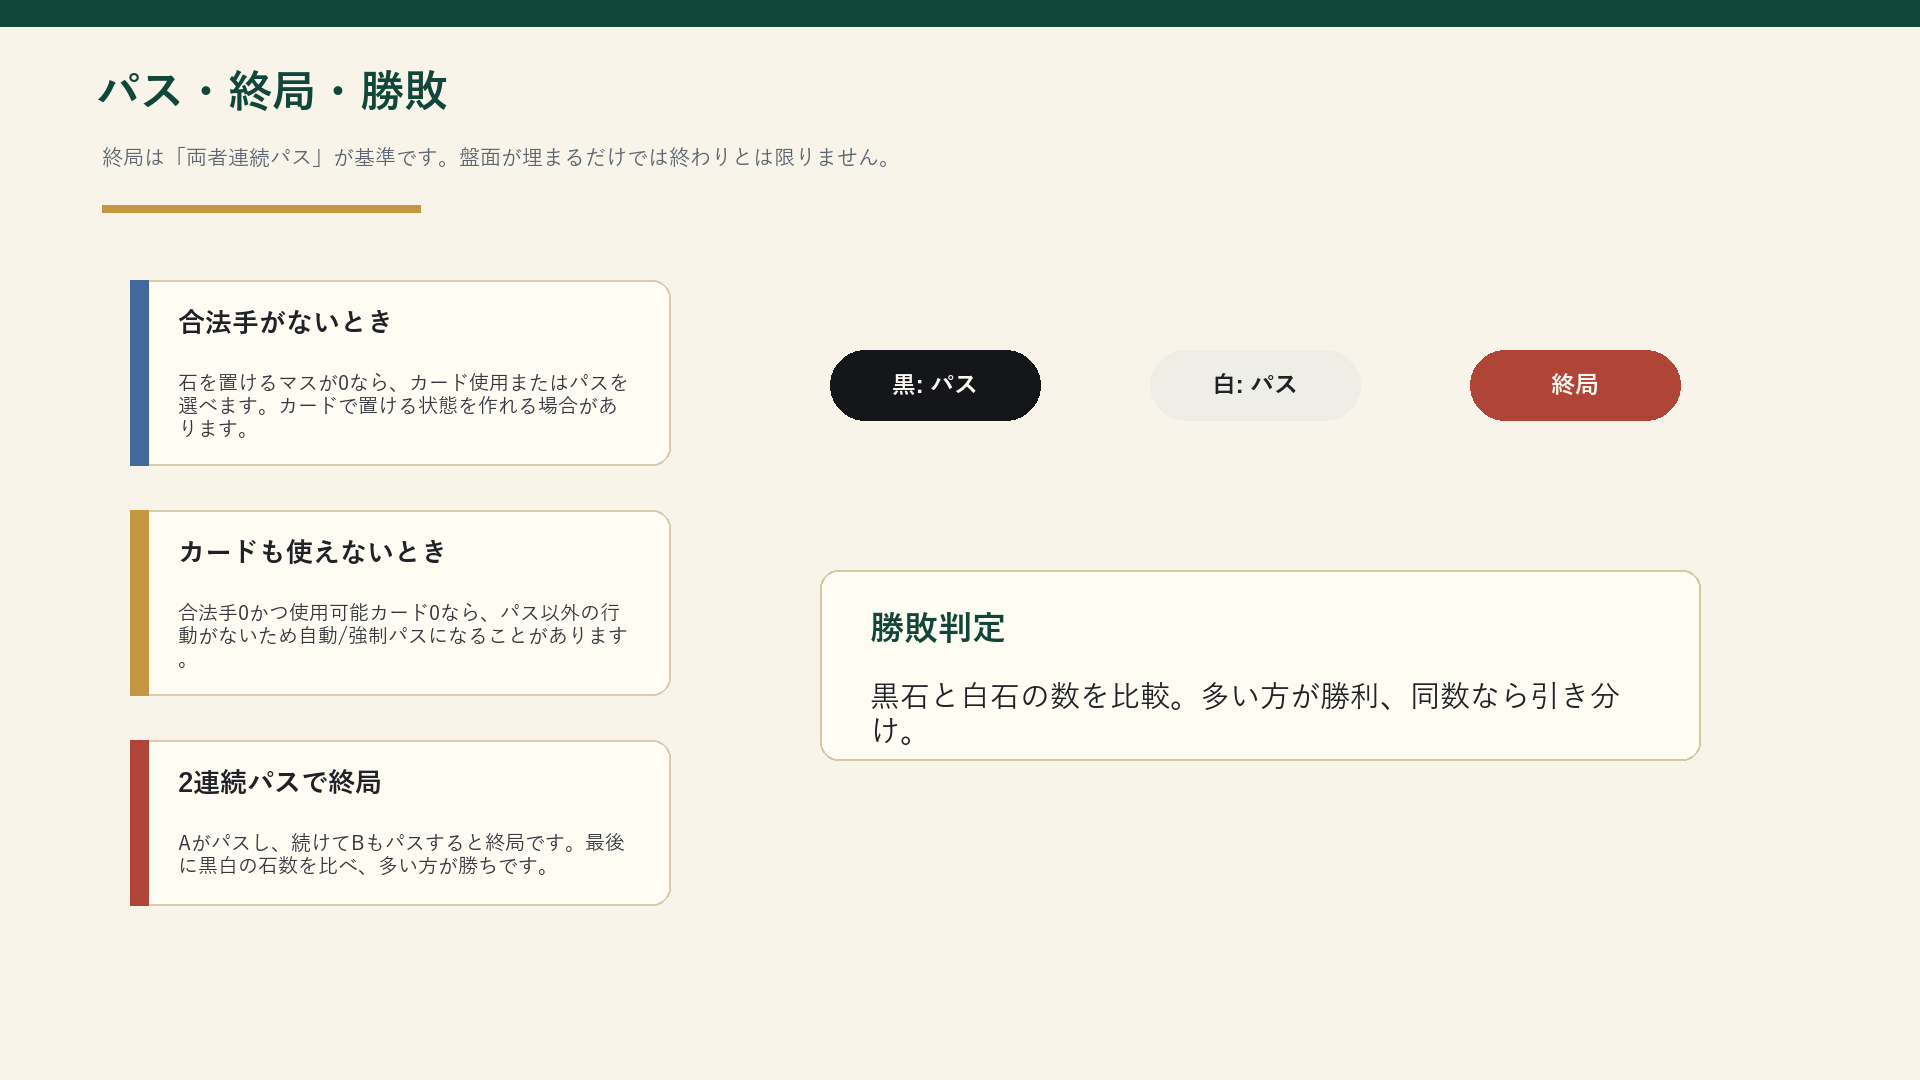
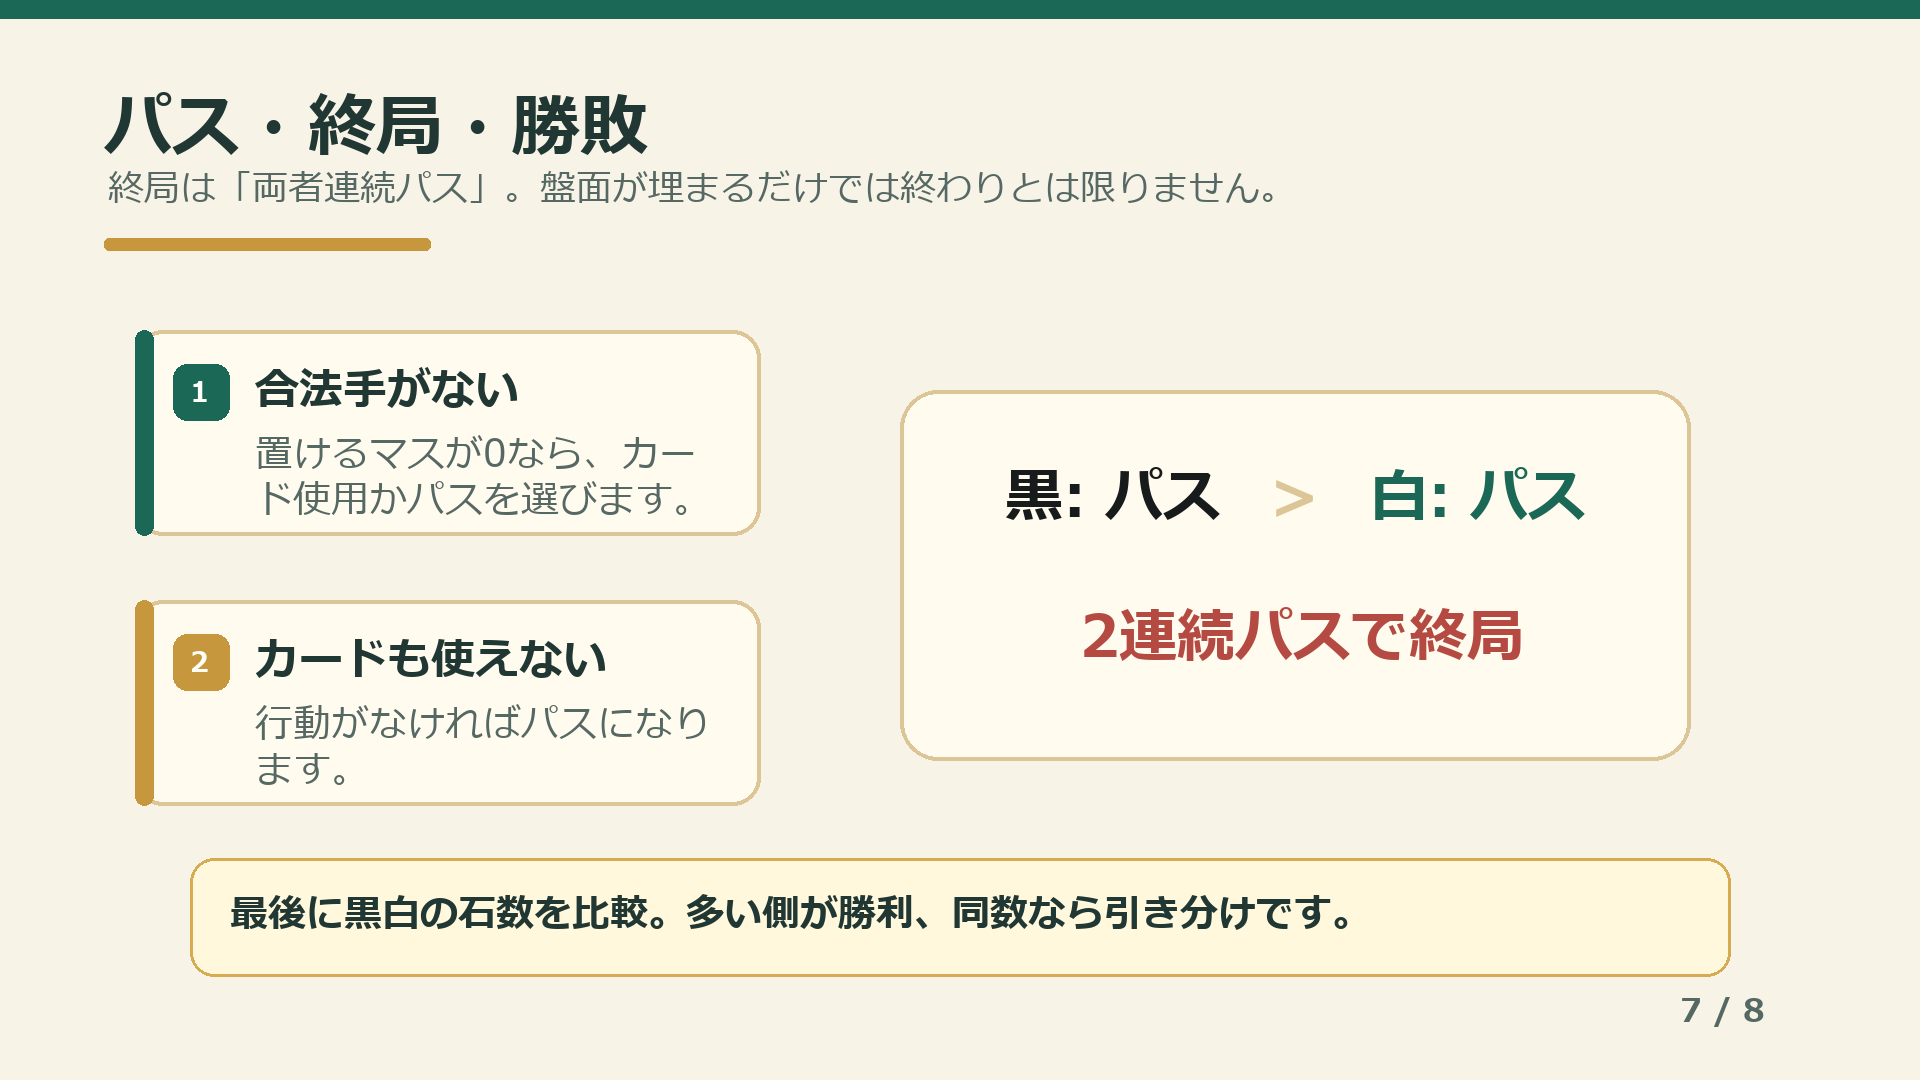
Improve help slide readability

diff --git a/scripts/generate-player-guide-slides.py b/scripts/generate-player-guide-slides.py
@@ -1,0 +1,265 @@
+from __future__ import annotations
+
+import shutil
+from pathlib import Path
+
+from PIL import Image, ImageDraw, ImageFont, JpegImagePlugin  # noqa: F401
+
+
+ROOT = Path(__file__).resolve().parents[1]
+ARTIFACT_DIR = ROOT / "artifacts" / "player-guide"
+ASSET_DIR = ROOT / "assets" / "images" / "help" / "player-guide"
+WORKER_ASSET_DIR = ROOT / "worker-public" / "assets" / "images" / "help" / "player-guide"
+PDF_PATH = ARTIFACT_DIR / "card-reversi-player-guide.pdf"
+W, H = 1920, 1080
+
+FONT_REGULAR = Path("C:/Windows/Fonts/meiryo.ttc")
+FONT_BOLD = Path("C:/Windows/Fonts/meiryob.ttc")
+
+
+COLORS = {
+    "bg": (247, 243, 231),
+    "ink": (32, 55, 51),
+    "muted": (86, 104, 99),
+    "teal": (27, 104, 86),
+    "gold": (199, 151, 61),
+    "red": (180, 74, 65),
+    "panel": (255, 251, 239),
+    "line": (220, 198, 151),
+    "green": (38, 115, 88),
+    "dark": (30, 51, 45),
+    "white": (238, 236, 226),
+    "black": (24, 27, 28),
+}
+
+
+def font(size: int, bold: bool = False) -> ImageFont.FreeTypeFont:
+    return ImageFont.truetype(str(FONT_BOLD if bold else FONT_REGULAR), size)
+
+
+def text_width(draw: ImageDraw.ImageDraw, text: str, fnt: ImageFont.FreeTypeFont) -> int:
+    box = draw.textbbox((0, 0), text, font=fnt)
+    return box[2] - box[0]
+
+
+def wrap_text(draw: ImageDraw.ImageDraw, text: str, fnt: ImageFont.FreeTypeFont, max_width: int) -> list[str]:
+    lines: list[str] = []
+    current = ""
+    for ch in text:
+        trial = current + ch
+        if current and text_width(draw, trial, fnt) > max_width:
+            lines.append(current)
+            current = ch
+        else:
+            current = trial
+    if current:
+        lines.append(current)
+    return lines
+
+
+def draw_wrapped(
+    draw: ImageDraw.ImageDraw,
+    xy: tuple[int, int],
+    text: str,
+    fnt: ImageFont.FreeTypeFont,
+    max_width: int,
+    fill=COLORS["ink"],
+    line_gap: int = 12,
+) -> int:
+    x, y = xy
+    for line in wrap_text(draw, text, fnt, max_width):
+        draw.text((x, y), line, font=fnt, fill=fill)
+        y += fnt.size + line_gap
+    return y
+
+
+def rounded(draw: ImageDraw.ImageDraw, box, radius=24, fill=None, outline=None, width=3):
+    draw.rounded_rectangle(box, radius=radius, fill=fill, outline=outline, width=width)
+
+
+def slide_base(page: int, title: str, subtitle: str = ""):
+    img = Image.new("RGB", (W, H), COLORS["bg"])
+    d = ImageDraw.Draw(img)
+    d.rectangle((0, 0, W, 18), fill=COLORS["teal"])
+    d.text((104, 78), title, font=font(68, True), fill=COLORS["ink"])
+    if subtitle:
+        draw_wrapped(d, (108, 162), subtitle, font(36), 1320, fill=COLORS["muted"], line_gap=8)
+    d.rounded_rectangle((104, 238, 430, 250), radius=5, fill=COLORS["gold"])
+    d.text((1680, 988), f"{page} / 8", font=font(32, True), fill=COLORS["muted"])
+    return img, d
+
+
+def bullet_card(draw, box, number, heading, body, accent=COLORS["teal"]):
+    x1, y1, x2, y2 = box
+    rounded(draw, box, radius=28, fill=COLORS["panel"], outline=COLORS["line"], width=4)
+    draw.rounded_rectangle((x1, y1, x1 + 18, y2), radius=9, fill=accent)
+    draw.rounded_rectangle((x1 + 38, y1 + 34, x1 + 94, y1 + 90), radius=14, fill=accent)
+    draw.text((x1 + 55, y1 + 42), str(number), font=font(28, True), fill=(255, 255, 250))
+    draw.text((x1 + 120, y1 + 28), heading, font=font(44, True), fill=COLORS["ink"])
+    draw_wrapped(draw, (x1 + 120, y1 + 96), body, font(38), x2 - x1 - 160, fill=COLORS["muted"], line_gap=8)
+
+
+def big_note(draw, text, y=858):
+    rounded(draw, (190, y, 1730, y + 118), radius=24, fill=(255, 248, 221), outline=(214, 171, 82), width=3)
+    draw_wrapped(draw, (230, y + 28), text, font(38, True), 1460, fill=COLORS["ink"], line_gap=8)
+
+
+def draw_board(draw, x, y, size=430, numbers=False, highlights=False):
+    cell = size // 8
+    draw.rectangle((x - 8, y - 8, x + size + 8, y + size + 8), fill=(92, 61, 30))
+    draw.rectangle((x, y, x + size, y + size), fill=(39, 116, 88))
+    for i in range(9):
+        p = x + i * cell
+        q = y + i * cell
+        draw.line((p, y, p, y + size), fill=(23, 73, 60), width=3)
+        draw.line((x, q, x + size, q), fill=(23, 73, 60), width=3)
+    if numbers:
+        vals = {(0, 0): "3", (1, 0): "7", (2, 0): "8", (4, 1): "2", (6, 1): "5", (7, 2): "4", (0, 5): "6", (3, 6): "10", (6, 6): "9"}
+        for (cx, cy), val in vals.items():
+            draw.text((x + cx * cell + 15, y + cy * cell + 9), val, font=font(32, True), fill=(232, 215, 143))
+    if highlights:
+        for cx, cy in [(2, 3), (3, 2), (4, 5), (5, 4)]:
+            draw.rectangle((x + cx * cell + 5, y + cy * cell + 5, x + (cx + 1) * cell - 5, y + (cy + 1) * cell - 5), fill=(88, 162, 122))
+    discs = [((3, 3), COLORS["black"]), ((4, 4), COLORS["black"]), ((3, 4), COLORS["white"]), ((4, 3), COLORS["white"])]
+    for (cx, cy), color in discs:
+        draw.ellipse((x + cx * cell + 11, y + cy * cell + 11, x + (cx + 1) * cell - 11, y + (cy + 1) * cell - 11), fill=color, outline=(6, 20, 18), width=2)
+
+
+def slide1():
+    img, d = slide_base(1, "Card Reversi", "リバーシに、布石とカードの判断を足した対戦ゲーム。")
+    d.text((116, 340), "まず覚えることは3つだけ", font=font(62, True), fill=COLORS["teal"])
+    bullet_card(d, (120, 460, 600, 735), "1", "石を返す", "置けるマスに置き、相手石を自分の色へ")
+    bullet_card(d, (720, 460, 1200, 735), "2", "布石を貯める", "反転や数字で増え、カードの燃料に")
+    bullet_card(d, (1320, 460, 1800, 735), "3", "カードで動かす", "配置前に使い、守る・動かす・破壊で盤面を変える", COLORS["red"])
+    big_note(d, "最初は「置ける場所」「布石の数」「手札」を見るだけで遊べます。")
+    return img
+
+
+def slide2():
+    img, d = slide_base(2, "このゲームを一言で", "通常リバーシの直感はそのまま。布石とカードで逆転手段が増えます。")
+    draw_board(d, 150, 382, 410, highlights=True)
+    d.text((200, 820), "黒先手 / 白後手", font=font(33, True), fill=COLORS["muted"])
+    bullet_card(d, (700, 330, 1720, 510), "1", "リバーシで石を増やす", "最後に石が多い側が勝利。読み合いは通常リバーシと同じ。")
+    bullet_card(d, (700, 565, 1720, 745), "2", "布石をカードへ変える", "布石を貯めて、強いカードのコストにします。", COLORS["gold"])
+    big_note(d, "悩んだら「今どこに置けるか」「次に何のカードを使えるか」を確認します。")
+    return img
+
+
+def slide3():
+    img, d = slide_base(3, "盤面と数字マス", "数字マスは布石を増やす重要マス。高い数字ほどカードにつながります。")
+    draw_board(d, 150, 330, 500, numbers=True, highlights=True)
+    bullet_card(d, (760, 326, 1710, 500), "1", "8x8の盤面", "中央4石から開始。黒が先手です。")
+    bullet_card(d, (760, 545, 1710, 720), "2", "数字分だけ布石を獲得", "数字マスに置くと、追加で布石が増えます。", COLORS["gold"])
+    bullet_card(d, (760, 764, 1710, 938), "3", "数字は一度だけ", "使った数字は復活しません。危険なら無理に取らない。", COLORS["red"])
+    return img
+
+
+def slide4():
+    img, d = slide_base(4, "1ターンの流れ", "カードは石を置く前に使うのが基本です。")
+    steps = [
+        ("1", "ターン開始", "継続効果や期限を処理"),
+        ("2", "1枚ドロー", "山札から手札へ"),
+        ("3", "カード使用", "任意。原則1ターン1枚"),
+        ("4", "配置 / パス", "置けないときはパス"),
+        ("5", "反転・効果", "石とカード効果を解決"),
+        ("6", "布石獲得", "反転枚数や数字分を加算"),
+    ]
+    x0, y0 = 115, 345
+    for i, (num, head, body) in enumerate(steps):
+        col = i % 3
+        row = i // 3
+        x = x0 + col * 600
+        y = y0 + row * 230
+        bullet_card(d, (x, y, x + 500, y + 170), num, head, body, [COLORS["teal"], COLORS["gold"], COLORS["red"]][i % 3])
+        if i not in (2, 5):
+            d.text((x + 520, y + 60), ">", font=font(56, True), fill=COLORS["line"])
+    big_note(d, "手札上限は5枚。使いにくいカードは破壊して手札を回す判断もあります。")
+    return img
+
+
+def slide5():
+    img, d = slide_base(5, "布石はカードの燃料", "貯めるほど強いカードが使えます。ただし上限は99です。")
+    rounded(d, (130, 355, 690, 765), radius=34, fill=COLORS["dark"], outline=COLORS["line"], width=4)
+    d.text((250, 435), "布石", font=font(62, True), fill=(255, 248, 225))
+    d.text((245, 535), "0 - 99", font=font(90, True), fill=(255, 214, 103))
+    d.text((224, 670), "カード使用時に消費", font=font(38, True), fill=(255, 248, 225))
+    bullet_card(d, (800, 325, 1715, 500), "1", "反転で増える", "返した枚数ぶん、すぐ布石を獲得します。")
+    bullet_card(d, (800, 545, 1715, 720), "2", "数字マスで増える", "数字マスの値が、そのまま追加布石になります。", COLORS["gold"])
+    bullet_card(d, (800, 765, 1715, 940), "3", "10ラウンドごとに加算", "10 / 20 / 30... の開始時にボーナスが入ります。", COLORS["red"])
+    return img
+
+
+def slide6():
+    img, d = slide_base(6, "カードの使い方", "強いカードほど布石コストが重くなります。使うタイミングが勝負です。")
+    cards = [
+        ("COST 0", "宝箱", "布石を増やす。序盤の燃料づくり。", COLORS["teal"]),
+        ("COST 1", "弱い意志", "次に置く石を一時的に守る。", COLORS["gold"]),
+        ("COST 14", "自由の意志", "反転0でも1手だけ置ける。", COLORS["red"]),
+        ("COST 23", "狙撃の意志", "重いが盤面を大きく崩せる。", (112, 75, 145)),
+    ]
+    for i, (cost, name, body, accent) in enumerate(cards):
+        x = 120 + (i % 2) * 900
+        y = 330 + (i // 2) * 265
+        rounded(d, (x, y, x + 770, y + 210), radius=30, fill=COLORS["panel"], outline=COLORS["line"], width=4)
+        d.rounded_rectangle((x + 36, y + 34, x + 210, y + 88), radius=14, fill=accent)
+        d.text((x + 58, y + 44), cost, font=font(29, True), fill=(255, 255, 250))
+        d.text((x + 250, y + 36), name, font=font(50, True), fill=COLORS["ink"])
+        draw_wrapped(d, (x + 50, y + 112), body, font(42), 680, fill=COLORS["muted"], line_gap=8)
+    big_note(d, "共通ルール: カードは配置前に使用。原則1ターン1枚です。")
+    return img
+
+
+def slide7():
+    img, d = slide_base(7, "パス・終局・勝敗", "終局は「両者連続パス」。盤面が埋まるだけでは終わりとは限りません。")
+    bullet_card(d, (135, 330, 760, 535), "1", "合法手がない", "置けるマスが0なら、カード使用かパスを選びます。")
+    bullet_card(d, (135, 600, 760, 805), "2", "カードも使えない", "行動がなければパスになります。", COLORS["gold"])
+    rounded(d, (900, 390, 1690, 760), radius=38, fill=COLORS["panel"], outline=COLORS["line"], width=4)
+    d.text((1005, 455), "黒: パス", font=font(58, True), fill=COLORS["black"])
+    d.text((1270, 455), ">", font=font(58, True), fill=COLORS["line"])
+    d.text((1370, 455), "白: パス", font=font(58, True), fill=COLORS["teal"])
+    d.text((1080, 595), "2連続パスで終局", font=font(58, True), fill=COLORS["red"])
+    big_note(d, "最後に黒白の石数を比較。多い側が勝利、同数なら引き分けです。")
+    return img
+
+
+def slide8():
+    img, d = slide_base(8, "はじめての対局で見るポイント", "細かい効果は遊びながら覚え、まずはこの4つで判断します。")
+    items = [
+        ("1", "角を急いで渡さない", "角の隣は、相手へ角を渡しやすい場所です。"),
+        ("2", "数字マスは燃料", "高い数字は強いカードにつながります。"),
+        ("3", "カードは置く前に考える", "合法手を増やす、守る、強い石を崩す。"),
+        ("4", "手札5枚に注意", "手札が詰まると次のドローを失います。"),
+    ]
+    for i, (num, head, body) in enumerate(items):
+        x = 120 + (i % 2) * 900
+        y = 320 + (i // 2) * 245
+        bullet_card(d, (x, y, x + 770, y + 185), num, head, body, [COLORS["teal"], COLORS["gold"], COLORS["red"], (112, 75, 145)][i])
+    big_note(d, "慣れてきたら、相手の布石量と手札も見ます。次に使われそうなカードを読むと戦略性が増します。", 850)
+    return img
+
+
+SLIDES = [slide1, slide2, slide3, slide4, slide5, slide6, slide7, slide8]
+
+
+def save_all() -> None:
+    ARTIFACT_DIR.mkdir(parents=True, exist_ok=True)
+    ASSET_DIR.mkdir(parents=True, exist_ok=True)
+    WORKER_ASSET_DIR.mkdir(parents=True, exist_ok=True)
+    rendered = []
+    for i, make_slide in enumerate(SLIDES, start=1):
+        img = make_slide()
+        path = ARTIFACT_DIR / f"card-reversi-player-guide-slide-{i:02d}.png"
+        img.save(path, optimize=True)
+        shutil.copy2(path, ASSET_DIR / path.name)
+        shutil.copy2(path, WORKER_ASSET_DIR / path.name)
+        rendered.append(img.convert("RGB"))
+    rendered[0].save(PDF_PATH, save_all=True, append_images=rendered[1:], resolution=144.0)
+    preview = Image.new("RGB", (W * 2, H * 4), COLORS["bg"])
+    for idx, img in enumerate(rendered):
+        thumb = img.resize((W, H), Image.Resampling.LANCZOS)
+        preview.paste(thumb, ((idx % 2) * W, (idx // 2) * H))
+    preview.resize((1920, 2160), Image.Resampling.LANCZOS).save(ARTIFACT_DIR / "card-reversi-player-guide-preview.png", optimize=True)
+
+
+if __name__ == "__main__":
+    save_all()
